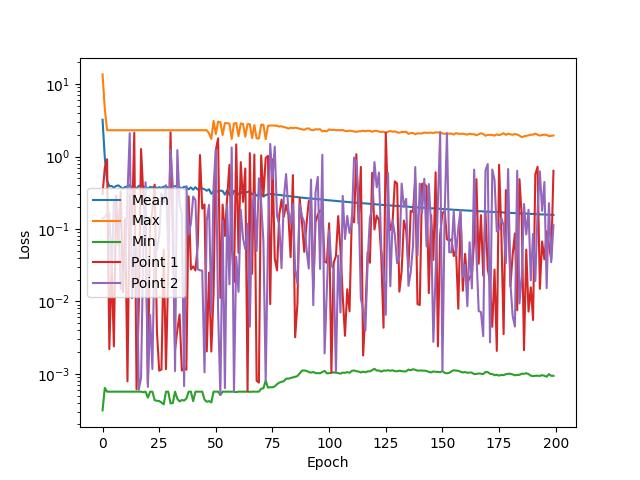
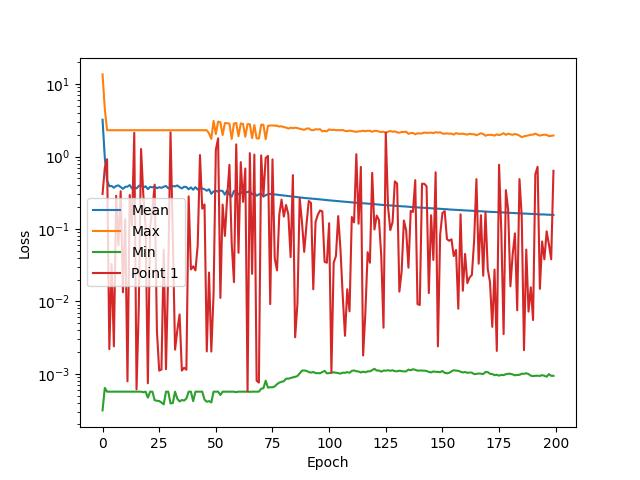
before meeting

Changed region(s): [[0.125, 0.2812, 0.875, 0.8125]]

diff --git a/project/ShowLossInfo.py b/project/ShowLossInfo.py
@@ -1,7 +1,7 @@
 import pandas as pd
 import matplotlib.pyplot as plt
 
-name = 'rank'
+name = 'meanlossgradient'
 root_dir = '/com.docker.devenvironments.code/project/Data/'+name+'/OutputLayers/'
 
 #Collect all the run infomation
@@ -29,7 +29,7 @@ plt.plot(range(max_epochs),df_loss.iloc[:,3:].mean(axis=0),label='Mean')
 plt.plot(range(max_epochs),df_loss.iloc[:,3:].max(axis=0),label='Max')
 plt.plot(range(max_epochs),df_loss.iloc[:,3:].min(axis=0),label='Min')
 plt.plot(range(max_epochs),df_loss.iloc[3,3:],label='Point 1')
-plt.plot(range(max_epochs),df_loss.iloc[10,3:],label='Point 2')
+#plt.plot(range(max_epochs),df_loss.iloc[10,3:],label='Point 2')
 plt.xlabel('Epoch')
 plt.ylabel('Loss')
 plt.yscale('log')
@@ -43,10 +43,10 @@ plt.plot(range(max_epochs),df_loss.iloc[:,3:].rolling(3,axis=1).var().mean(axis=
 plt.plot(range(max_epochs),df_loss.iloc[:,3:].rolling(3,axis=1).var().max(axis=0),label='Max')
 plt.plot(range(max_epochs),df_loss.iloc[:,3:].rolling(3,axis=1).var().min(axis=0),label='Min')
 plt.plot(range(max_epochs),df_loss.iloc[3,3:].rolling(3).var(),label='Point 1')
-plt.plot(range(max_epochs),df_loss.iloc[10,3:].rolling(3).var(),label='Point 2')
+#plt.plot(range(max_epochs),df_loss.iloc[10,3:].rolling(3).var(),label='Point 2')
 plt.xlabel('Epoch')
 plt.ylabel('Rolling Loss Variance')
-#plt.yscale('log')
+plt.yscale('log')
 plt.legend()
 plt.savefig(root_dir+'Loss_rolling_var.jpg')
 plt.close()
